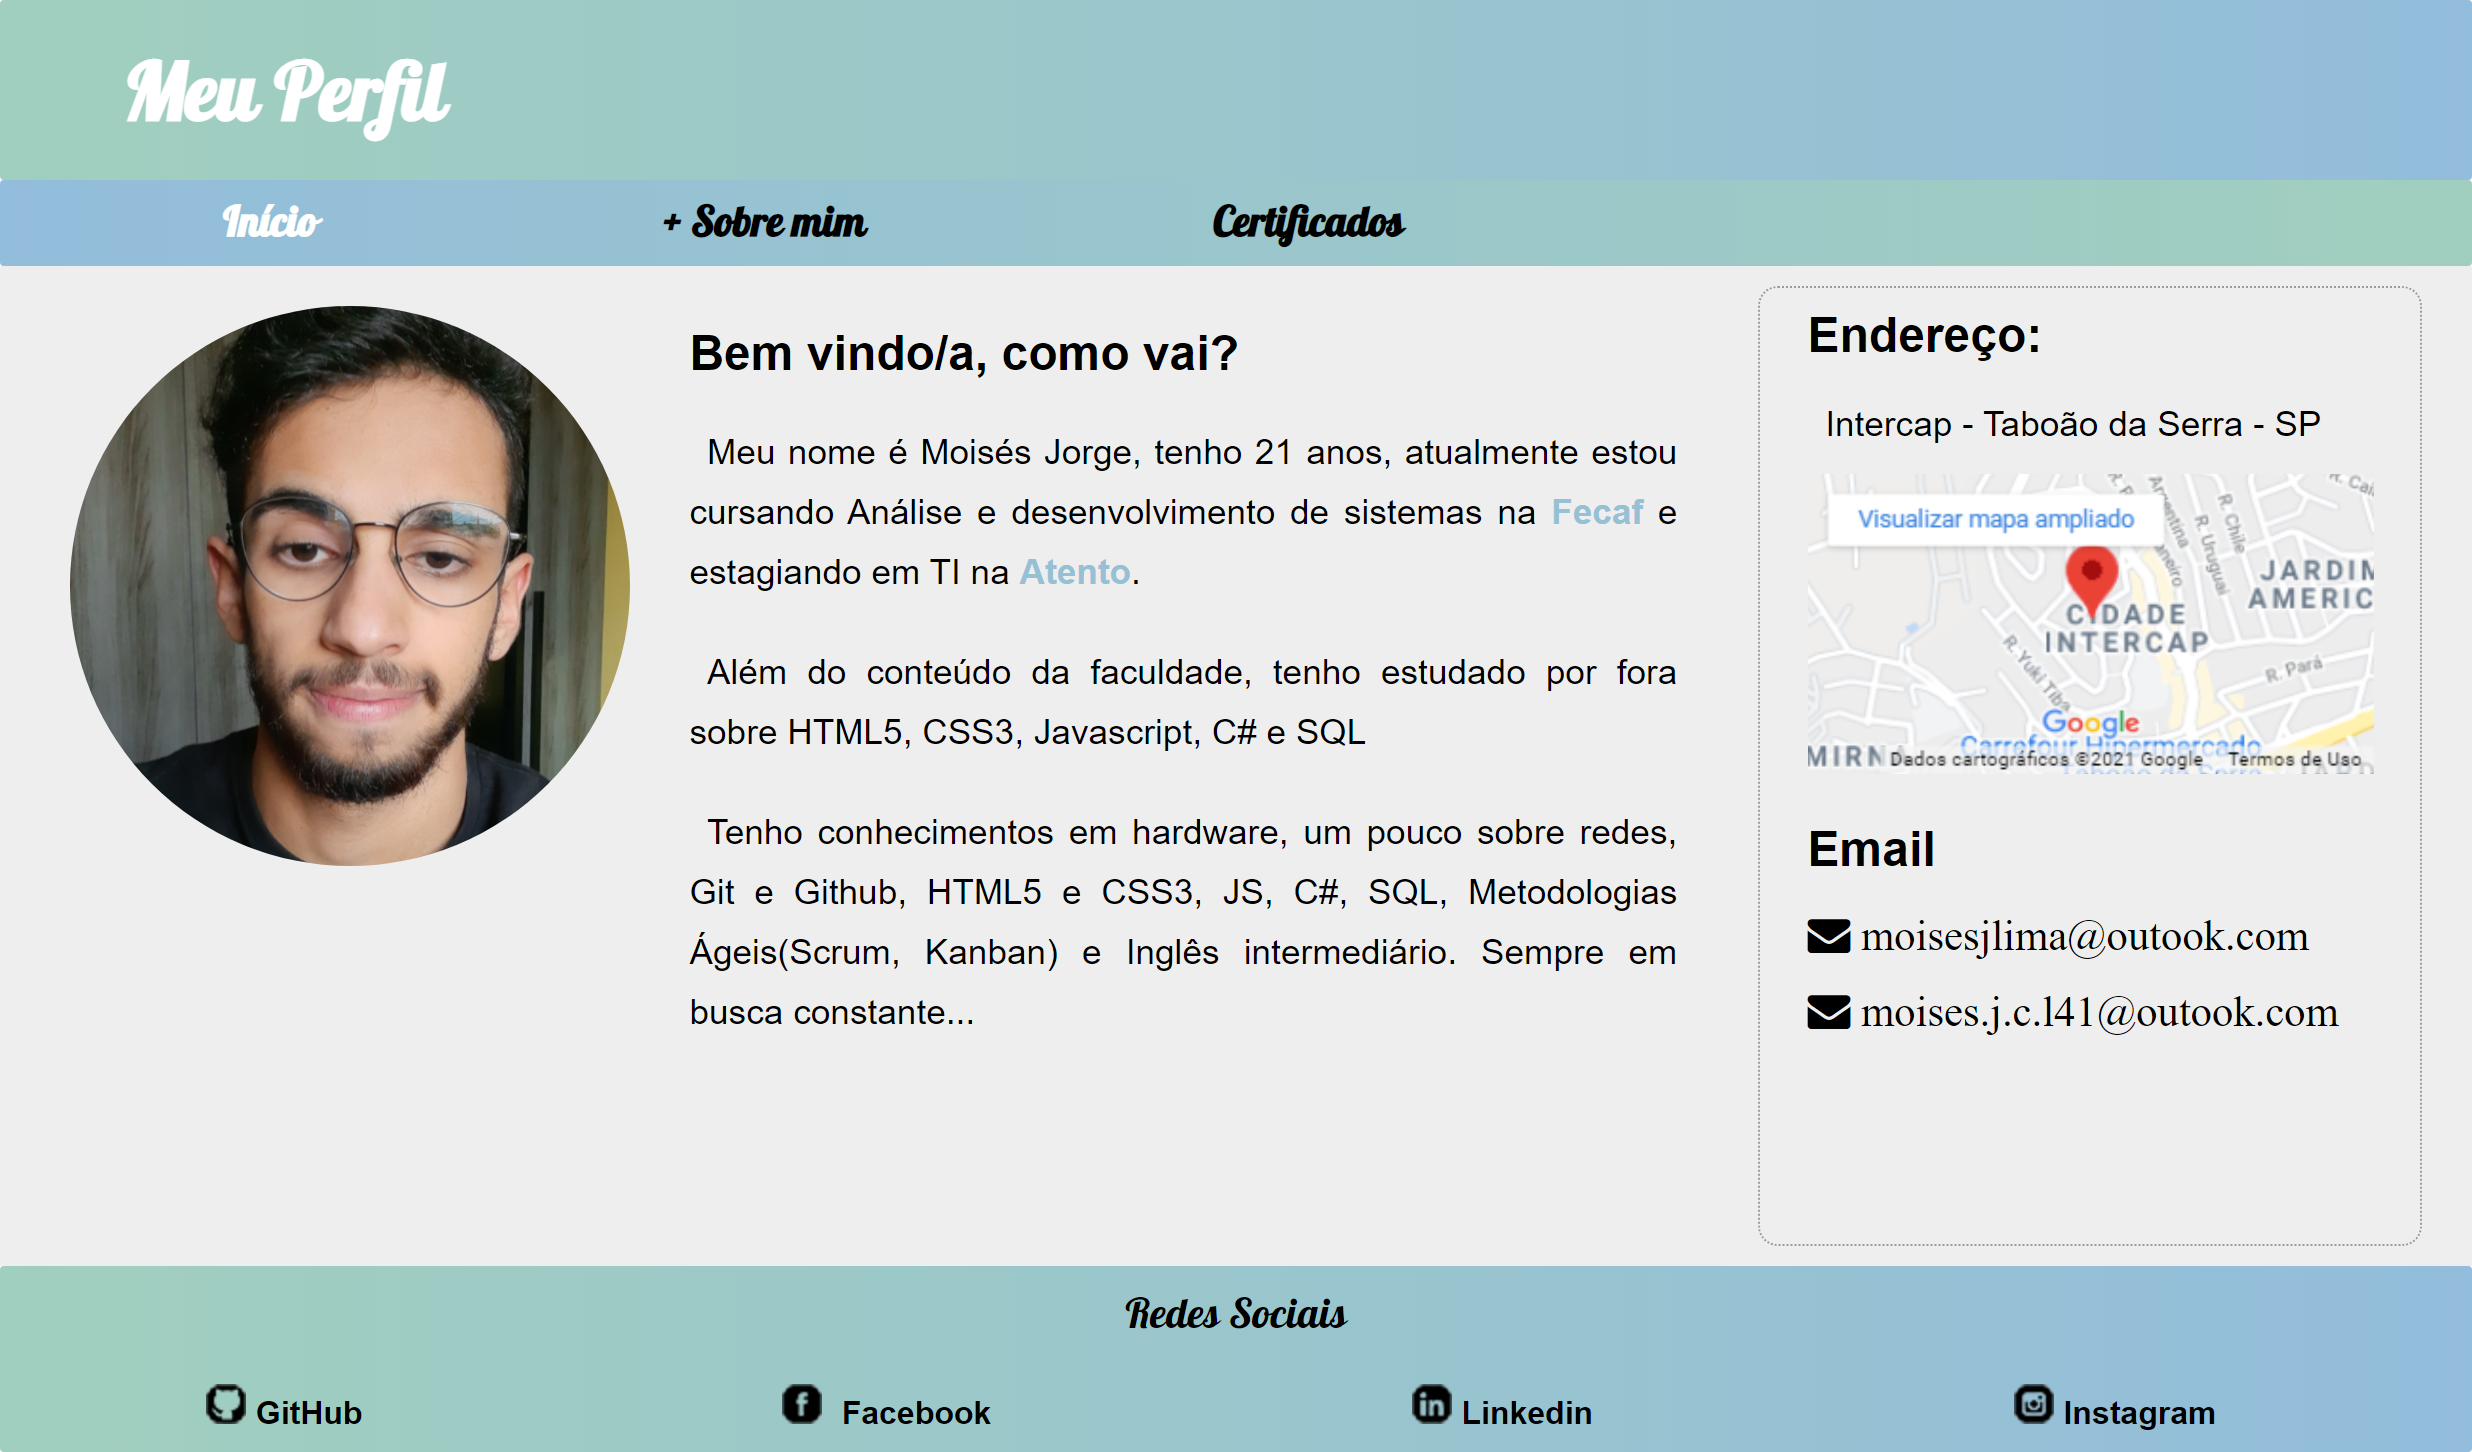
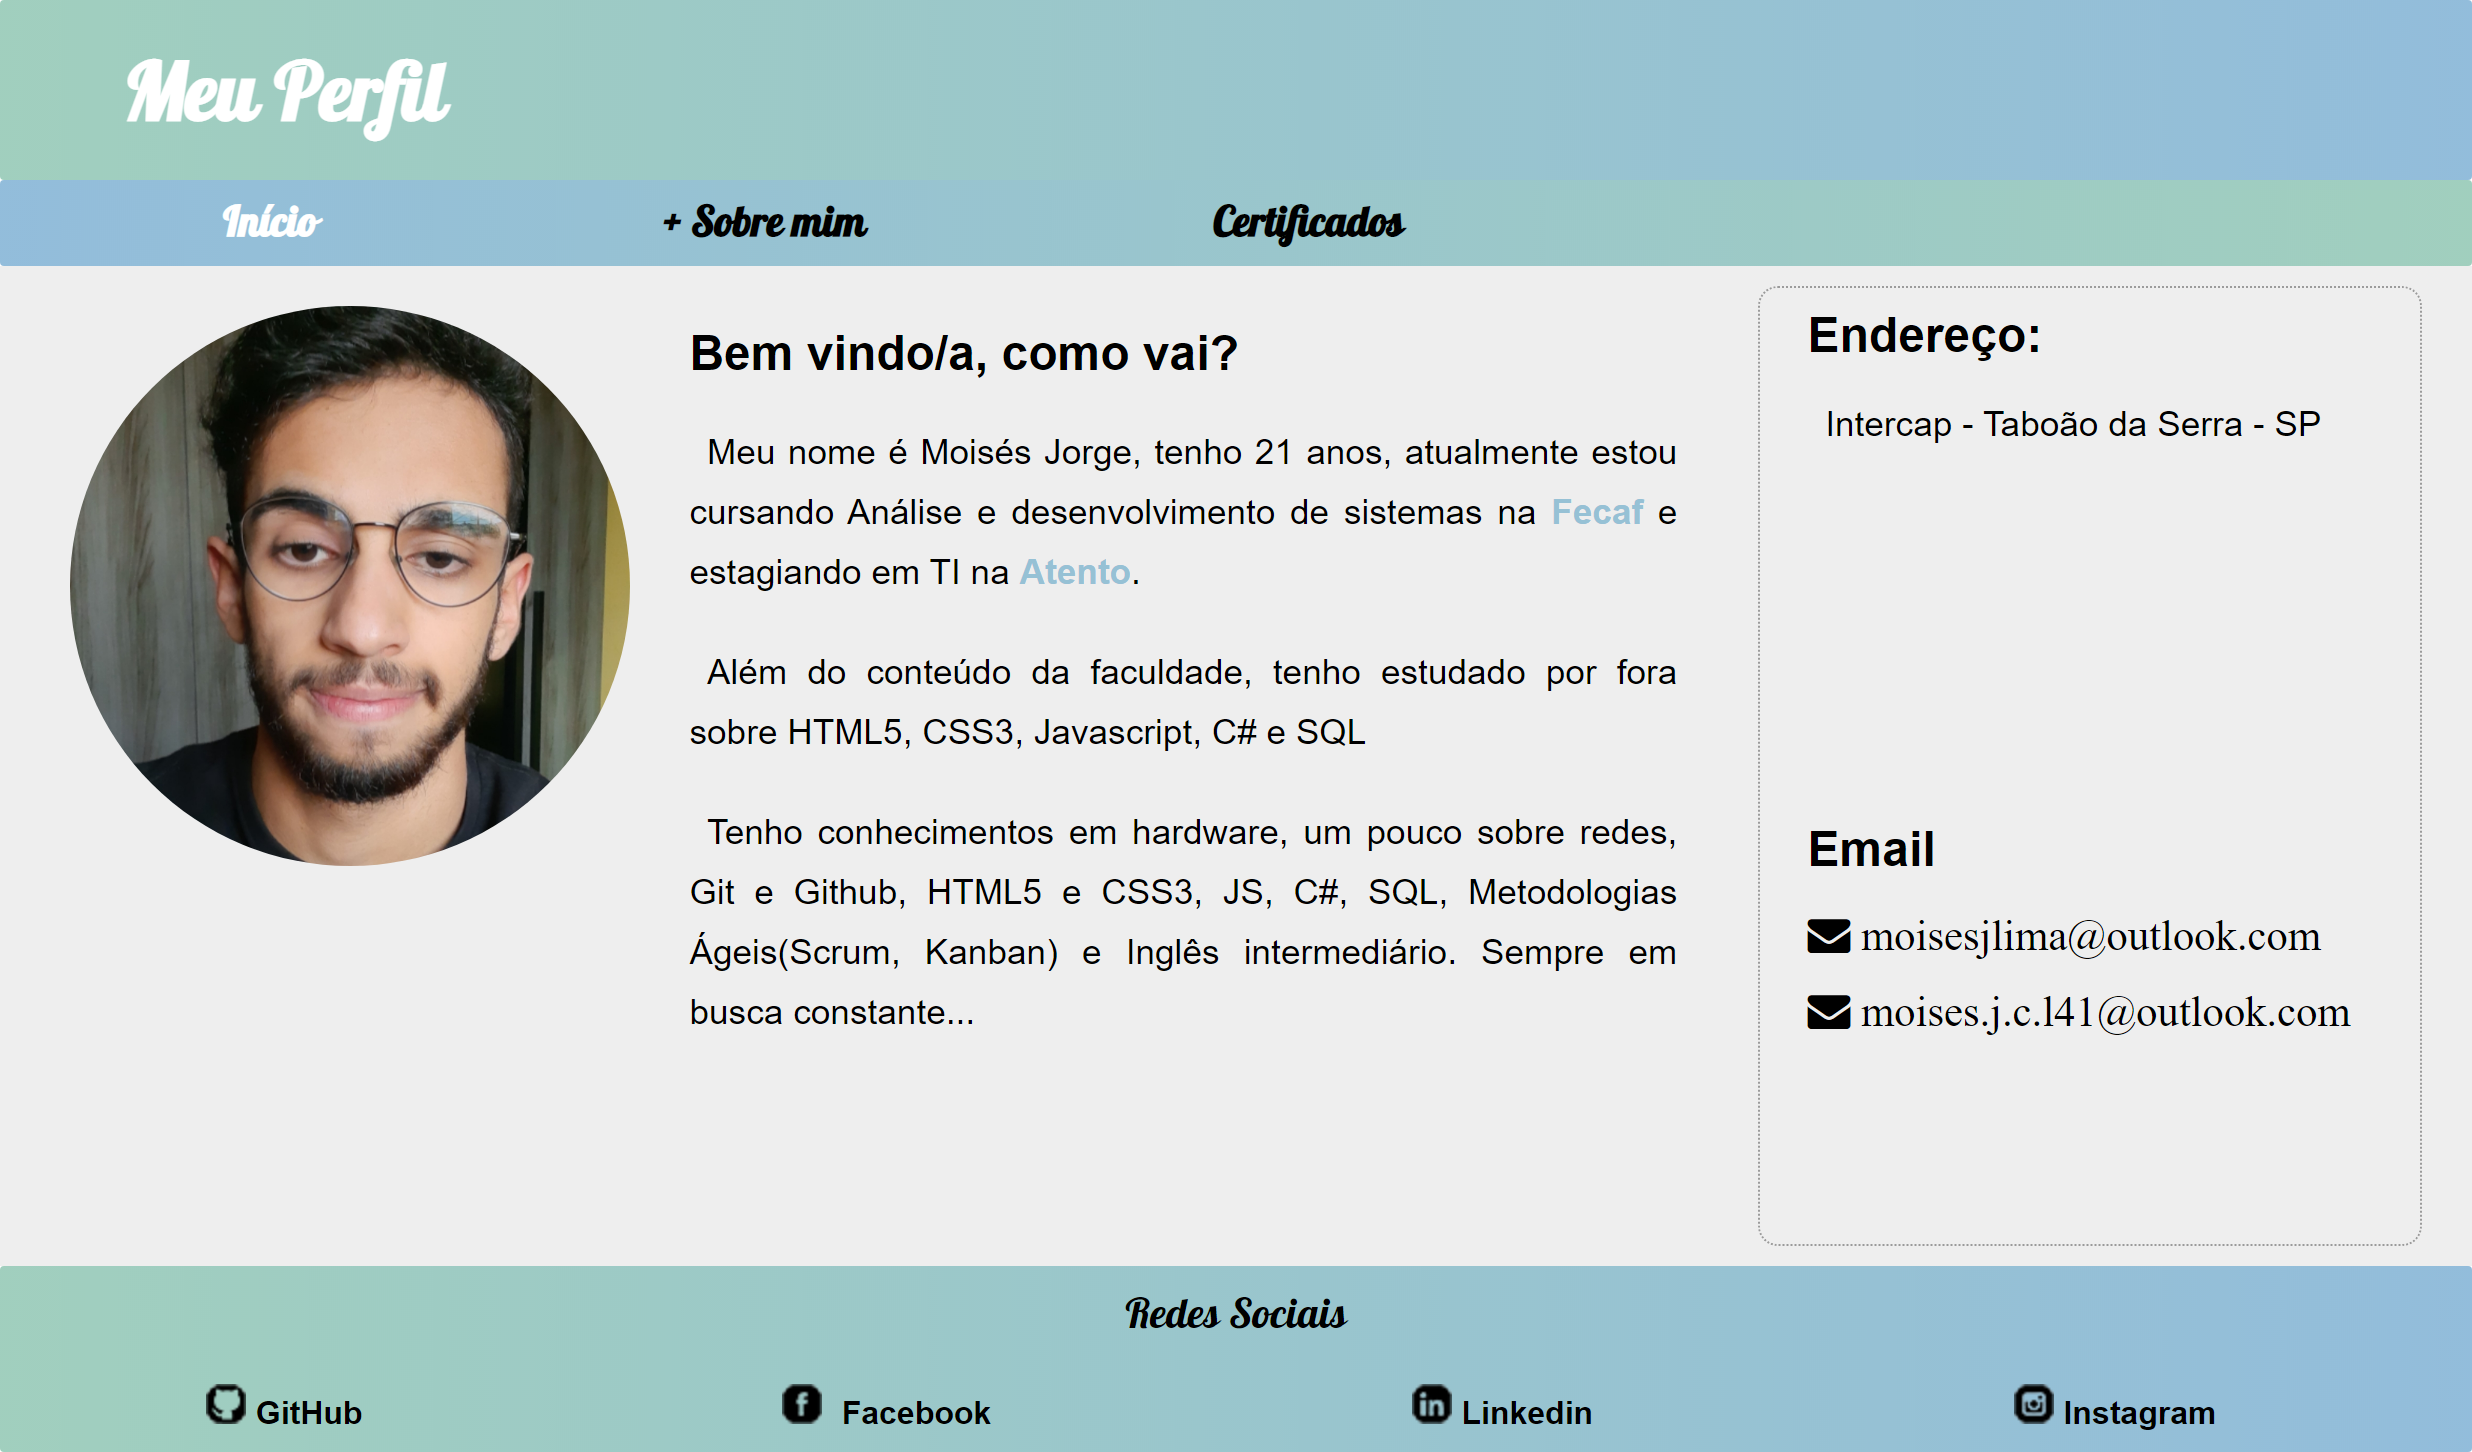
add correcoes e nova img

Changed region(s): [[0.7164, 0.3409, 0.9656, 0.5269], [0.8722, 0.6818, 0.9656, 0.7128], [0.8722, 0.6198, 0.9345, 0.6508]]

diff --git a/about.html b/about.html
@@ -30,7 +30,7 @@
         <div class="img-r">
             <img src="img/20210529_164314.jpg" alt="moises" title="Tentando modelar kk">
         </div>
-        <p>Bem, logo após concluir o curso de Programação Web, fiquei um tempo sem estudar programação, estava somente concluindo o ensino médio, e depois da conclusão do ensino médio fui estudar música, mais precisamente violão na Ong Músicos Do Futuro, pois é música é minha outra paixão🎸, fiquei por um ano lá, foi muito legal aprender a tocar um instrumento entender a linguagem da música como funciona harmonia, melodia, ritmo... Hoje vejo como um hobby que tenho e gosto demais. E dai quando, atráves do Enem ganhei uma bolsa 100% para cursar Análise e Desenvolvimento de Sistemas EAD na Fecaf em 2020(meio do ano passado), fiquei super feliz, esse tempo que fiquei sem estudar na área de TI, muita coisa ficou obsoleto, se renovou, atualizou, como por exemplo algumas tags HTML que eu usava lá em 2017 no curso do Senac, como a tag &lt;center&gt; e outras, hoje percebo que nesta area não podemos parar de estudar nunca, por isso sigo nessa longa caminhada e espero futuramente me tornar um desenvolvedor senior. A priori queria ser Front-end, mas hoje penso em ser Full-Stack. E hoje agradeço por estar cursando ADS na Fecaf e através dos estudos me proporcionou iniciar um estágio.</p>
+        <p>Bem, logo após concluir o curso de Programação Web, fiquei um tempo sem estudar programação, estava somente concluindo o ensino médio, e depois da conclusão do ensino médio fui estudar música, mais precisamente violão na Ong Músicos Do Futuro, pois é música é minha outra paixão🎸, fiquei por um ano lá, foi muito legal aprender a tocar um instrumento entender a linguagem da música como funciona harmonia, melodia, ritmo... Hoje vejo como um hobby que tenho e gosto demais. E dai quando, atráves do Enem ganhei uma bolsa 100% para cursar Análise e Desenvolvimento de Sistemas EAD na Fecaf em 2020(meio do ano passado), fiquei super feliz, esse tempo que fiquei sem estudar na área de TI, muita coisa ficou obsoleto, se renovou, atualizou, como por exemplo algumas tags HTML que eu usava lá em 2017 no curso do Senac, como a tag &lt;center&gt; e outras, hoje percebo que nesta área não podemos parar de estudar nunca, por isso sigo nessa longa caminhada e espero futuramente me tornar um desenvolvedor senior. A priori queria ser Front end, mas hoje penso em ser Full Stack. E hoje agradeço por estar cursando ADS na Fecaf e através dos estudos me proporcionou iniciar um estágio.</p>
     </main>
 
     <footer class="rodape">

diff --git a/certificates.html b/certificates.html
@@ -26,15 +26,15 @@
     <main class="principal">
         <h1>Meus Certificados</h1>
         <p>Alguns dos cursos que já fiz</p>
-        <img src="img/certificados/Certificado_HTML5_CSS3_napratica.jpg" title="Criando um pagina simples" alt="C_html_css">
-        <img src="img/certificados/Certificado_Branchs.jpg" title="Trabalhando com ramificações no git" alt="C_git_branch">
-        <img src="img/certificados/Certificado_SCRUM-1.jpg" title="Conceitos do SCRUM" alt="C_scrum">
-        <img src="img/certificados/csharp_basico.jpg" title="Conceito básicos de C# e Lógica de Programação" alt="C_C#basico">
-        <img src="img/certificados/csharp_avancado.jpg" title="POO e desenvolvimento em camadas" alt="C_C#avancado">
-        <img src="img/certificados/FIAbootcamp_Certificado_Moises-1.jpg" title="Fia Bootcamp" alt="C_FiaBootcamp">
+        <img src="img/certificados/Certificado_HTML5_CSS3_napratica.jpg" title="HTML5 & CSS3 na prática" alt="C_html_css">
+        <img src="img/certificados/Certificado_Branchs.jpg" title="Trabalhando com Branches no Git e GitHub" alt="C_git_branch">
+        <img src="img/certificados/Certificado_SCRUM-1.jpg" title="Projetos ágeis e SCRUM" alt="C_scrum">
+        <img src="img/certificados/csharp_basico.jpg" title="C# Básico" alt="C_C#basico">
+        <img src="img/certificados/csharp_avancado.jpg" title="C# avançado" alt="C_C#avancado">
+        <img src="img/certificados/FIAbootcamp_Certificado_Moises-1.jpg" title="Fia Bootcamp" alt="Bootcamp Fia Online">
         <img src="img/certificados/certificado_ssis_redes.jpg" title="Conceitos de Redes" alt="C_assistente_Redes">
-        <img src="img/certificados/C_excel.jpg" title="Utilizando Excel 2016" alt="C_Excel" >
-        <img src="img/certificados/C_montador-1.jpg" title="Montagem e manuntenção na prática" alt="C_montador">
+        <img src="img/certificados/C_excel.jpg" title="Excel 2016" alt="Excel 2016" >
+        <img src="img/certificados/C_montador-1.jpg" title="Montador e reparador de computadores" alt="C_montador">
         <p>E continuo sempre me atualizando...📚💻</p>
     </main>
 

diff --git a/index.html b/index.html
@@ -38,8 +38,8 @@
             <iframe src="https://www.google.com/maps/embed?pb=!1m18!1m12!1m3!1d3655.8859245637327!2d-46.780965585021406!3d-23.60842378465943!2m3!1f0!2f0!3f0!3m2!1i1024!2i768!4f13.1!3m3!1m2!1s0x94ce545a5fd5e043%3A0x246f380216990e02!2sR.%20Ant%C3%B4nio%20Maciel%20de%20Oliveira%2C%20Tabo%C3%A3o%20da%20Serra%20-%20SP!5e0!3m2!1spt-BR!2sbr!4v1622161250650!5m2!1spt-BR!2sbr"></iframe>
             <h2>Email</h2>
             <ul>
-                <li><i class="fa fa-envelope fa-lg"> moisesjlima@outook.com</i></li>
-                <li><i class="fa fa-envelope fa-lg"> moises.j.c.l41@outook.com</i></li>
+                <li><i class="fa fa-envelope fa-lg"> moisesjlima@outlook.com</i></li>
+                <li><i class="fa fa-envelope fa-lg"> moises.j.c.l41@outlook.com</i></li>
             </ul>
         </aside>
     </main>

diff --git a/css/style.css b/css/style.css
@@ -57,6 +57,7 @@ li {list-style: none;}
 
 /*PRINCIPAL*/
 .principal {
+    float: left;
     width: 100%;
     min-height: 500px;
     padding: 10px 2%;
